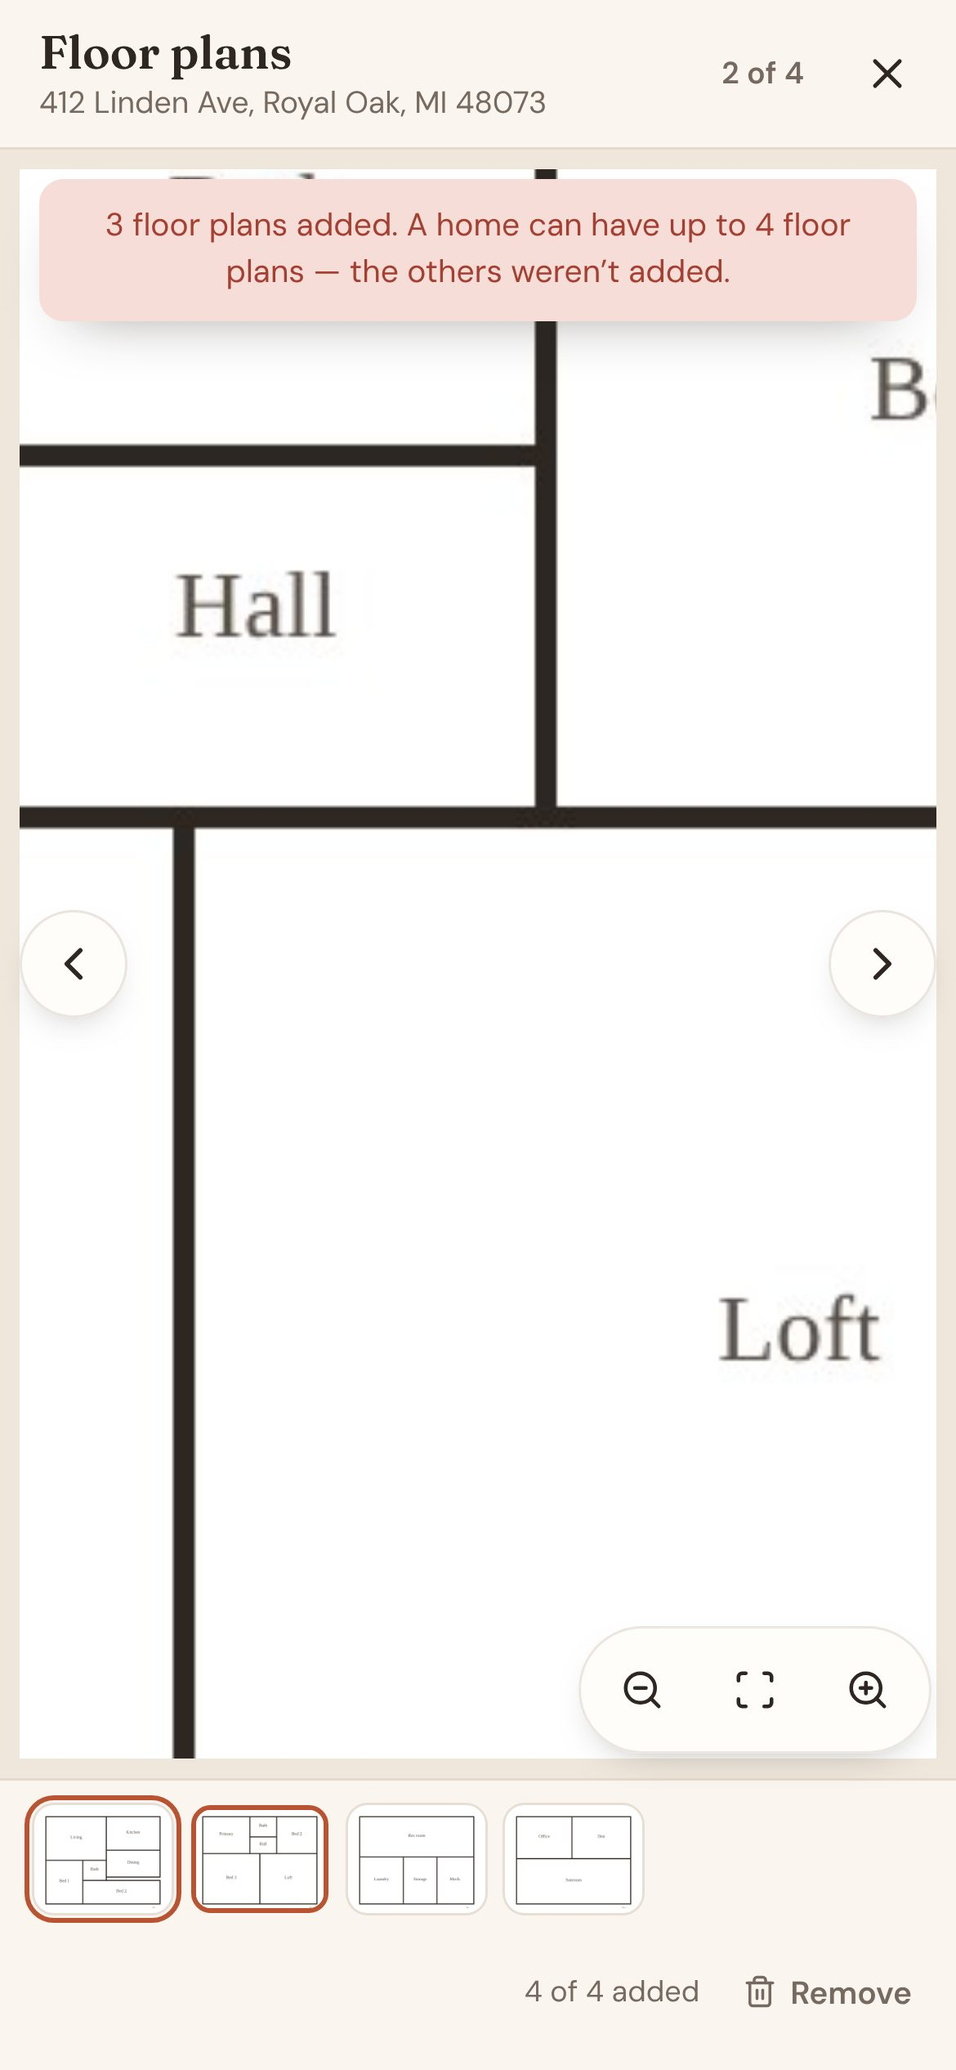
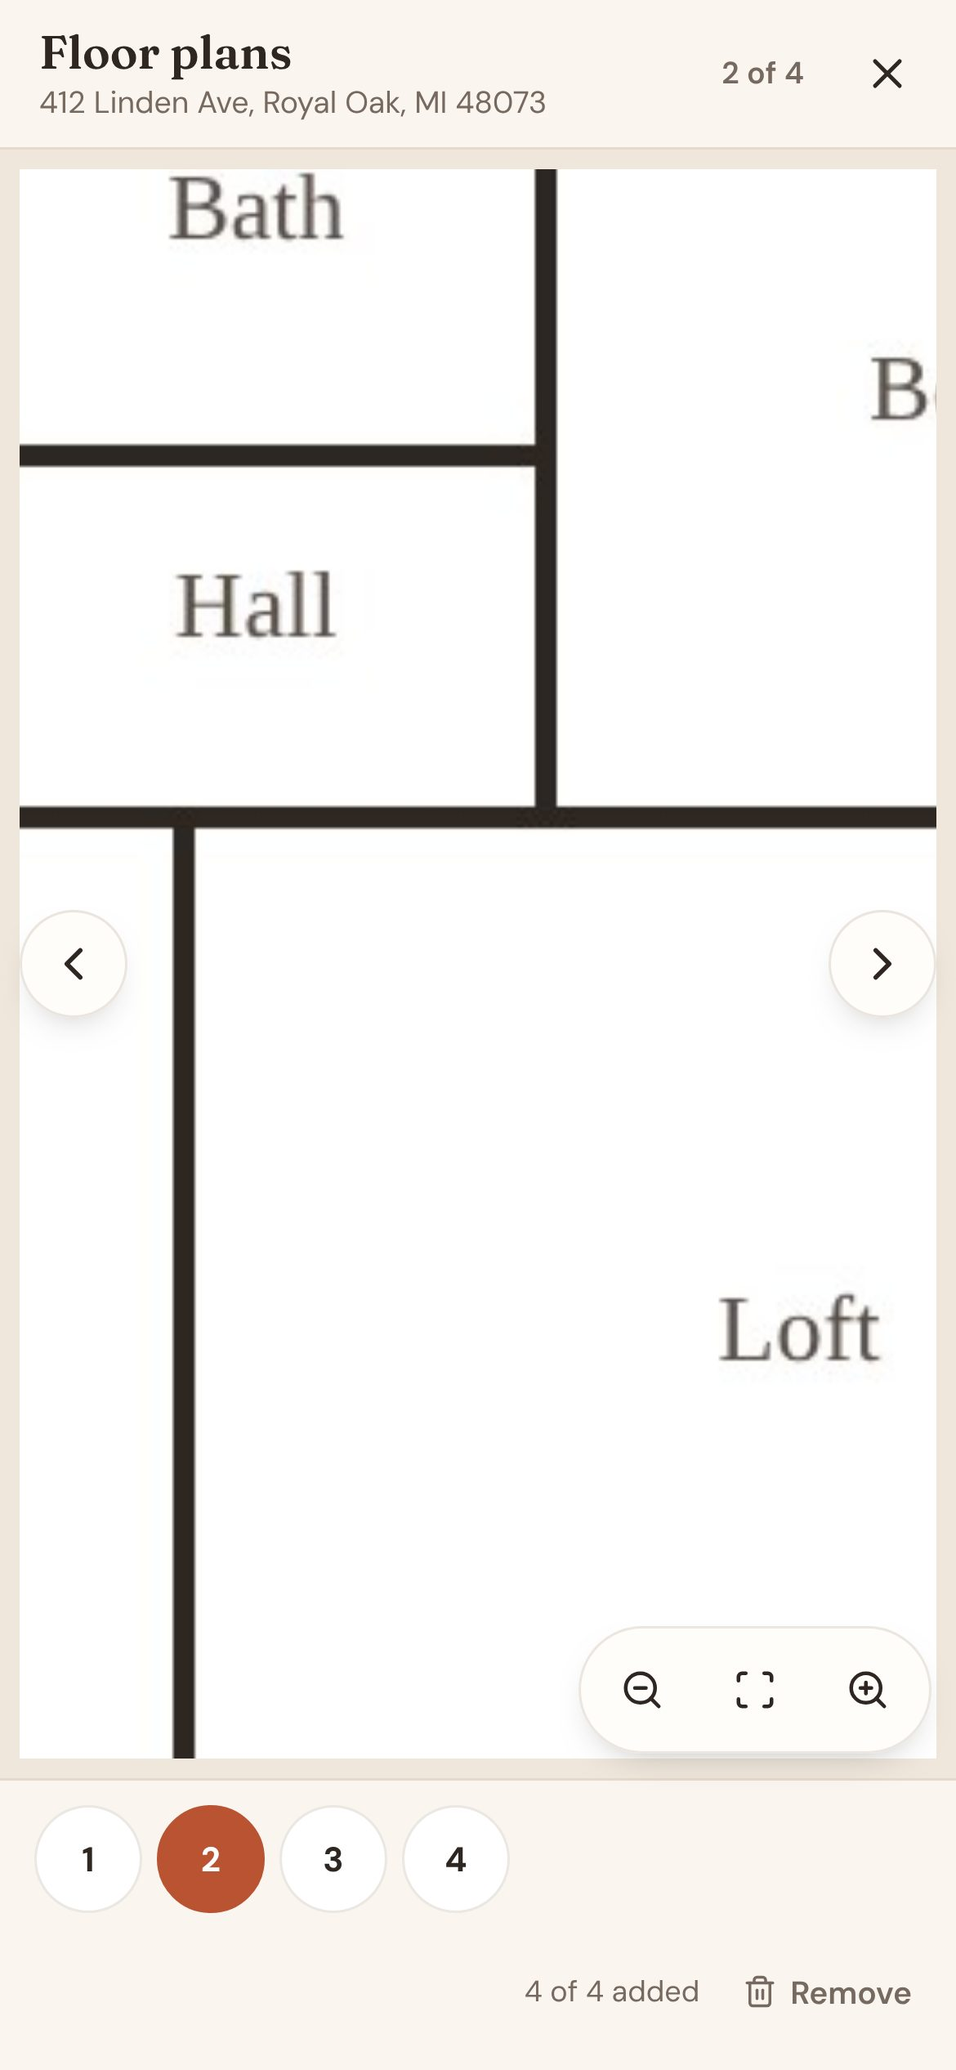
Floor plans viewer: decode only the selected plan
A plan decodes at its natural size whatever CSS draws it at, and the picker
showed every plan's original as a thumbnail, so all four were downloaded and
decoded at once. The picker is now numbered buttons: resized thumbnails would
need Supabase's paid, per-request Image Transformations, which the app does
not use.

The viewer renders a single <img> (the selected plan, stage keyed by plan).
When the stage unmounts a callback ref removes its src, so WebKit cancels a
download still in flight and can free the bitmap; late load / error events
are ignored so a cancelled download never shows as unavailable.
will-change: transform only while a finger is down (no permanent layer of the
zoomed image); decoding="async".

Tests: source guards for one <img>, no preloading, numbered picker, release on
unmount, no permanent layer. Browser QA (29/29): one download per selected
plan, rapid switching with slowed downloads (in-flight ones aborted, last
choice wins, no false error), nothing left after close, a 48 MP plan.

Claude-Session: https://claude.ai/code/session_01Xn2ZhbrXXqq3Au1bMpfmis

Changed region(s): [[0.0308, 0.0624, 0.9846, 0.1872], [0.0, 0.8424, 0.5538, 0.936]]

diff --git a/src/app/globals.css b/src/app/globals.css
@@ -2959,15 +2959,18 @@ body:has(.rl-root) { --flh-status-bar-bg: #f8f4ec; }
 .hh-fp-icon-button { display: inline-flex; align-items: center; justify-content: center; width: 44px; height: 44px; flex: 0 0 auto; padding: 0; border: 1px solid transparent; border-radius: 999px; background: transparent; color: var(--ink); cursor: pointer; }
 .hh-fp-icon-button:hover:not(:disabled) { background: rgba(46,38,33,.07); }
 .hh-fp-icon-button:disabled { opacity: .35; cursor: default; }
-.hh-fp-icon-button:focus-visible, .hh-fp-thumb:focus-visible, .hh-fp-text-button:focus-visible { outline: 2px solid var(--brick); outline-offset: 2px; }
+.hh-fp-icon-button:focus-visible, .hh-fp-page:focus-visible, .hh-fp-text-button:focus-visible { outline: 2px solid var(--brick); outline-offset: 2px; }
 .hh-fp-main { position: relative; min-height: 0; background: #EFE7DC; }
 .hh-fp-stage-wrap { position: absolute; inset: 0; }
 .hh-fp-stage { position: absolute; inset: 12px; overflow: hidden; }
 .hh-fp-canvas { position: absolute; inset: 0; display: flex; align-items: center; justify-content: center; touch-action: none; user-select: none; -webkit-user-select: none; -webkit-touch-callout: none; cursor: zoom-in; }
 .hh-fp-stage.is-zoomed .hh-fp-canvas { cursor: grab; }
 .hh-fp-stage.is-zoomed .hh-fp-canvas:active { cursor: grabbing; }
-.hh-fp-image { display: block; max-width: 100%; max-height: 100%; object-fit: contain; border-radius: 4px; background: #fff; box-shadow: 0 1px 2px rgba(46,38,33,.08), 0 16px 34px -24px rgba(46,38,33,.45); transform-origin: center; transition: transform .2s ease, opacity .2s ease; will-change: transform; pointer-events: none; }
-.hh-fp-image.is-gesturing { transition: opacity .2s ease; }
+.hh-fp-image { display: block; max-width: 100%; max-height: 100%; object-fit: contain; border-radius: 4px; background: #fff; box-shadow: 0 1px 2px rgba(46,38,33,.08), 0 16px 34px -24px rgba(46,38,33,.45); transform-origin: center; transition: transform .2s ease, opacity .2s ease; pointer-events: none; }
+/* A compositing layer only while a finger is down: a permanent one keeps a
+   bitmap of the zoomed image (many screens' worth on a 3× display) and
+   rasterises it blurry at fit size. */
+.hh-fp-image.is-gesturing { transition: opacity .2s ease; will-change: transform; }
 .hh-fp-image-loading { position: absolute; inset: 0; display: grid; place-items: center; color: var(--ink-soft); }
 .hh-fp-spin { animation: flh-spin .9s linear infinite; }
 .hh-fp-nav { position: absolute; top: 50%; transform: translateY(-50%); background: rgba(255,253,250,.92); border-color: var(--flh-card-line); box-shadow: 0 6px 16px -10px rgba(46,38,33,.5); }
@@ -2985,10 +2988,10 @@ body:has(.rl-root) { --flh-status-bar-bg: #f8f4ec; }
 .hh-fp-add.hh-btn { display: inline-flex; align-items: center; justify-content: center; gap: 7px; min-height: 44px; padding: 0 16px; border-radius: 10px; font: 700 13.5px var(--font-ui); }
 .hh-fp-add.hh-btn:disabled { opacity: .7; cursor: progress; }
 .hh-fp-footer { display: flex; align-items: center; justify-content: space-between; flex-wrap: wrap; gap: 10px 16px; padding: 12px 18px calc(12px + var(--flh-safe-bottom, 0px)); border-top: 1px solid var(--line); background: var(--paper); }
-.hh-fp-thumbs { display: flex; gap: 8px; margin: 0; padding: 0; list-style: none; }
-.hh-fp-thumb { display: grid; place-items: center; width: 64px; height: 48px; overflow: hidden; padding: 0; border: 2px solid transparent; border-radius: 8px; background: #fff; color: var(--ink-soft); cursor: pointer; box-shadow: 0 0 0 1px var(--flh-card-line); }
-.hh-fp-thumb img { width: 100%; height: 100%; object-fit: cover; pointer-events: none; }
-.hh-fp-thumb.is-current { border-color: var(--brick); box-shadow: none; }
+.hh-fp-pages { display: flex; flex-wrap: wrap; gap: 6px; margin: 0; padding: 0; list-style: none; }
+.hh-fp-page { display: grid; place-items: center; width: 44px; height: 44px; padding: 0; border: 1px solid var(--flh-card-line); border-radius: 999px; background: var(--paper-raised); color: var(--ink); cursor: pointer; font: 700 14px var(--font-ui); font-variant-numeric: tabular-nums; }
+.hh-fp-page:hover:not(.is-current) { border-color: var(--brick); color: var(--brick); }
+.hh-fp-page.is-current { border-color: var(--brick); background: var(--brick); color: #fff; }
 .hh-fp-edit { display: flex; align-items: center; gap: 4px 14px; flex-wrap: wrap; margin-left: auto; }
 .hh-fp-room { color: var(--ink-soft); font-size: 12px; font-variant-numeric: tabular-nums; }
 .hh-fp-text-button { display: inline-flex; align-items: center; gap: 5px; min-height: 44px; padding: 0 4px; border: 0; border-radius: 6px; background: none; color: var(--ink-soft); cursor: pointer; font: 600 13px var(--font-ui); }
@@ -3017,11 +3020,10 @@ body:has(.rl-root) { --flh-status-bar-bg: #f8f4ec; }
   .hh-fp-nav.is-next { right: 8px; }
   .hh-fp-zoom { right: 10px; bottom: 10px; }
   .hh-fp-footer { padding: 10px 14px calc(10px + var(--flh-safe-bottom, 0px)); }
-  .hh-fp-thumb { width: 56px; height: 44px; }
   .hh-fp-confirm { justify-content: flex-start; margin-left: 0; }
 }
 /* Short landscape (iPhone on its side): the stage takes the height, the
-   thumbnails and actions move to a rail on the right. */
+   plan numbers and actions move to a rail on the right. */
 @media (orientation: landscape) and (max-height: 560px) {
   .hh-fp-viewer { grid-template-columns: minmax(0, 1fr) auto; grid-template-rows: auto minmax(0, 1fr); }
   .hh-fp-header { grid-column: 1 / -1; padding-top: calc(4px + var(--flh-safe-top, 0px)); padding-bottom: 4px; }
@@ -3029,7 +3031,6 @@ body:has(.rl-root) { --flh-status-bar-bg: #f8f4ec; }
   .hh-fp-title { display: inline; font-size: 17px; }
   .hh-fp-main { grid-column: 1; grid-row: 2; }
   .hh-fp-footer { grid-column: 2; grid-row: 2; flex-direction: column; flex-wrap: nowrap; align-items: stretch; justify-content: flex-start; width: 172px; overflow-y: auto; padding: 10px 12px calc(10px + var(--flh-safe-bottom, 0px)); border-top: 0; border-left: 1px solid var(--line); }
-  .hh-fp-thumbs { flex-wrap: wrap; }
   .hh-fp-edit, .hh-fp-confirm { flex-direction: column; align-items: stretch; margin-left: 0; gap: 4px; }
   .hh-fp-confirm > div { flex-direction: column; }
 }

diff --git a/src/components/FloorPlans.jsx b/src/components/FloorPlans.jsx
@@ -41,9 +41,33 @@ export function FloorPlansAction({ count, canEdit, address, onOpen }) {
 // One plan, fitted to the stage. Pinch or double-tap / double-click to zoom,
 // drag to pan while zoomed; at fit, a horizontal swipe moves between plans
 // and a pull down closes. Wheel / trackpad zoom on desktop.
+//
+// Memory: this is the only full-resolution image the viewer ever mounts (the
+// plan picker is numbered buttons, not thumbnails, and nothing is preloaded).
+// A floor plan decodes at its natural size whatever CSS draws it at — a 48 MP
+// scan is ~190 MB of bitmap — so the stage is keyed by plan and, when it
+// unmounts (another plan chosen, viewer closed), drops the image's src: WebKit
+// cancels a download still in flight and can free the decoded bitmap at once
+// instead of keeping it until the node is collected.
 function ZoomStage({ plan, alt, controlsRef, onScaleChange, onSwipe, onDismiss, onImageError, onImageLoad }) {
   const stageRef = useRef(null);
   const canvasRef = useRef(null);
+  const image = useRef(null);
+  const released = useRef(false);
+  // A callback ref, not an effect cleanup: React has already cleared object
+  // refs by the time unmount cleanups run, so the node would be gone.
+  const imageRef = useCallback((node) => {
+    if (node) {
+      image.current = node;
+      released.current = false;
+      return;
+    }
+    // Late load / error events from a released image are not this plan's
+    // failure (a cancelled download fires none, but no engine is relied on).
+    released.current = true;
+    image.current?.removeAttribute('src');
+    image.current = null;
+  }, []);
   const [view, setView] = useState({ scale: MIN_SCALE, x: 0, y: 0 });
   const [stage, setStage] = useState({ width: 0, height: 0 });
   const [natural, setNatural] = useState(null);
@@ -211,9 +235,11 @@ function ZoomStage({ plan, alt, controlsRef, onScaleChange, onSwipe, onDismiss, 
         >
           {/* eslint-disable-next-line @next/next/no-img-element */}
           <img
+            ref={imageRef}
             src={plan.url}
             alt={alt}
             draggable={false}
+            decoding="async"
             className={`hh-fp-image${loaded ? ' is-loaded' : ''}${gesturing ? ' is-gesturing' : ''}`}
             style={{
               width: fitted.width || undefined,
@@ -222,11 +248,12 @@ function ZoomStage({ plan, alt, controlsRef, onScaleChange, onSwipe, onDismiss, 
               opacity: loaded ? (follow?.y ? Math.max(0.35, 1 - follow.y / 400) : 1) : 0,
             }}
             onLoad={(event) => {
+              if (released.current) return;
               setNatural({ width: event.currentTarget.naturalWidth, height: event.currentTarget.naturalHeight });
               setLoaded(true);
               onImageLoad?.(plan);
             }}
-            onError={() => onImageError?.(plan)}
+            onError={() => { if (!released.current) onImageError?.(plan); }}
           />
           {!loaded && <div className="hh-fp-image-loading" role="status"><LoaderCircle size={22} className="hh-fp-spin" aria-hidden="true" /><span className="sr-only">Loading floor plan</span></div>}
         </div>
@@ -553,17 +580,19 @@ export function FloorPlansViewer({ homeId, address, onClose, onCountChange }) {
 
         {phase === 'ready' && plans.length > 0 && (plans.length > 1 || canEdit) && (
           <footer className="hh-fp-footer">
+            {/* Numbered, not thumbnails: a thumbnail would have to be the full
+                original (no resized variants without paid Storage image
+                transformations), downloading and decoding every plan at once. */}
             {plans.length > 1 && (
-              <ul className="hh-fp-thumbs" aria-label="Choose a floor plan">
+              <ol className="hh-fp-pages" aria-label="Choose a floor plan">
                 {plans.map((plan, i) => (
                   <li key={plan.id}>
-                    <button type="button" className={`hh-fp-thumb${i === index ? ' is-current' : ''}`} onClick={() => { setConfirming(false); setIndex(i); }} aria-label={`Floor plan ${i + 1} of ${plans.length}`} aria-current={i === index ? 'true' : undefined}>
-                      {/* eslint-disable-next-line @next/next/no-img-element */}
-                      {plan.url && !broken[plan.id] ? <img src={plan.url} alt="" draggable={false} /> : <DraftingCompass size={16} aria-hidden="true" />}
+                    <button type="button" className={`hh-fp-page${i === index ? ' is-current' : ''}`} onClick={() => { setConfirming(false); setIndex(i); }} aria-label={`Floor plan ${i + 1} of ${plans.length}`} aria-current={i === index ? 'true' : undefined}>
+                      {i + 1}
                     </button>
                   </li>
                 ))}
-              </ul>
+              </ol>
             )}
             {canEdit && (
               confirming ? (

diff --git a/test/floor-plans-ui.test.js b/test/floor-plans-ui.test.js
@@ -192,6 +192,49 @@ test('signed URLs are refreshed before they lapse, on return from the background
   assert.match(viewer, /\{canEdit && \(/);
 });
 
+/* --------------------------- image memory (WKWebView) --------------------------- */
+
+test('memory: the viewer mounts exactly one full-resolution image — the selected plan — and preloads nothing', () => {
+  // One <img> in the whole component, inside ZoomStage, which is keyed by plan.
+  assert.equal((viewer.match(/<img\b/g) || []).length, 1);
+  const stage = viewer.slice(viewer.indexOf('function ZoomStage('), viewer.indexOf('function FloorPlansViewer('));
+  assert.match(stage, /<img\s+ref=\{imageRef\}\s+src=\{plan\.url\}/);
+  assert.match(viewer, /<ZoomStage\s+key=\{current\.id\}/);
+  assert.equal((viewer.match(/<ZoomStage\b/g) || []).length, 1);
+  // No preloading or off-screen decoding of other plans.
+  assert.doesNotMatch(viewer, /new Image\(|rel="preload"|rel=.prefetch|\.decode\(\)|createImageBitmap|<canvas|URL\.createObjectURL|fetch\(/);
+  assert.match(stage, /decoding="async"/);
+});
+
+test('memory: the plan picker is numbered buttons, not thumbnails of the originals', () => {
+  const picker = viewer.slice(viewer.indexOf('<ol className="hh-fp-pages"'), viewer.indexOf('</ol>'));
+  assert.ok(picker.length > 0, 'numbered picker missing');
+  assert.doesNotMatch(picker, /<img|plan\.url|background-?[Ii]mage/);
+  assert.match(picker, /aria-label=\{`Floor plan \$\{i \+ 1\} of \$\{plans\.length\}`\}/);
+  assert.match(picker, /aria-current=\{i === index \? 'true' : undefined\}/);
+  assert.match(picker, /\{i \+ 1\}/);
+  assert.doesNotMatch(viewer + fpCss, /hh-fp-thumb/);
+  assert.match(fpCss, /\.hh-fp-page \{[^}]*width: 44px; height: 44px;/);
+  // Signing is unchanged: one batch of plain signed URLs, no (paid) transforms.
+  assert.doesNotMatch(viewer, /transform:\s*\{|render\/image|createSignedUrl\(/);
+});
+
+test('memory: a stage that unmounts drops its image src (cancels the download, frees the bitmap) and ignores late events', () => {
+  const stage = viewer.slice(viewer.indexOf('function ZoomStage('), viewer.indexOf('function FloorPlansViewer('));
+  // A callback ref: object refs are already null when unmount cleanups run.
+  assert.match(stage, /const imageRef = useCallback\(\(node\) => \{[\s\S]*?released\.current = true;\s*image\.current\?\.removeAttribute\('src'\);\s*image\.current = null;/);
+  assert.doesNotMatch(stage, /imageRef\.current/);
+  assert.match(stage, /onLoad=\{\(event\) => \{\s*if \(released\.current\) return;/);
+  assert.match(stage, /onError=\{\(\) => \{ if \(!released\.current\) onImageError\?\.\(plan\); \}\}/);
+});
+
+test('memory: CSS sizing is not the optimisation — no permanent compositing layer for the zoomed image', () => {
+  // The fitted width/height only change how the bitmap is drawn, not its size.
+  assert.match(fpCss, /\.hh-fp-image \{[^}]*transform-origin: center;/);
+  assert.doesNotMatch(fpCss.match(/\.hh-fp-image \{[^}]*\}/)[0], /will-change/);
+  assert.match(fpCss, /\.hh-fp-image\.is-gesturing \{ transition: opacity \.2s ease; will-change: transform; \}/);
+});
+
 /* ---------------------------- accessibility / devices ---------------------------- */
 
 test('viewer: modal dialog, focus trap, Escape, labelled 44px controls, keyboard zoom and pan', () => {

diff --git a/docs/floor-plans-ui.md b/docs/floor-plans-ui.md
@@ -53,7 +53,8 @@ overlay are untouched.
 **Viewer** (`src/components/FloorPlans.jsx`): full-screen on phones and in
 short landscape, a large dialog on iPad / desktop.
 
-* One plan or several: counter (`2 of 3`), previous / next buttons, thumbnails,
+* One plan or several: counter (`2 of 3`), previous / next buttons, numbered
+  plan buttons (`1 2 3 4`),
   swipe left / right, arrow keys. No wrap-around.
 * Zoom: pinch, double-tap / double-click, trackpad / wheel, `+` `-` `0` keys
   and Zoom out / Fit / Zoom in buttons (1×–4×). Drag pans while zoomed; the
@@ -61,7 +62,7 @@ short landscape, a large dialog on iPad / desktop.
 * Close: ✕, Escape, pull down. Focus is trapped while open and returns to the
   card action afterwards. Every control is labelled and ≥ 44 px; notices are
   announced (`status` / `alert`); reduced motion respected.
-* Landscape iPhone: the thumbnails and actions move to a side rail so the plan
+* Landscape iPhone: the plan numbers and actions move to a side rail so the plan
   gets the full height. Safe areas (notch, home indicator) respected.
 * Owner / co-buyer: `Add floor plan` (JPEG, PNG or WebP, ≤ 10 MB, several at
   once), `Remove` (asks first: "for everyone on this search"), `n of 4 added`.
@@ -97,6 +98,40 @@ bucket objects after every add / remove: no leftover file.
 viewer is open, on return from the background past that point, and once when
 an image fails to load; a second failure shows the unavailable state.
 
+## Image memory (iPhone / iPad WKWebView)
+
+A floor plan decodes at its **natural** pixel size, whatever size CSS draws
+it: a 48 MP phone photo or scan is about 190 MB of bitmap. Drawing it smaller
+(`width` / `height`, `object-fit`) saves nothing and is not counted as an
+optimisation here. What the viewer does instead:
+
+* **One full-resolution image at a time.** The viewer renders exactly one
+  `<img>`, the selected plan, inside a stage keyed by plan. Nothing else is
+  mounted, preloaded, prefetched or decoded off screen (no `new Image()`,
+  `<link rel=preload>`, canvas or blob URLs).
+* **Numbered plan buttons instead of thumbnails.** A thumbnail would have to be
+  the original file. Signed, resized variants need Supabase Storage *Image
+  Transformations*: Pro plan and above, billed per origin image, switchable per
+  project, and reachable only through one signing request per image
+  (`createSignedUrl(…, { transform })`; the batch `createSignedUrls` the app uses
+  has no transform option). It is not used anywhere in the app and not
+  verifiable from here, so it is not used.
+* **Released on switch / close.** When the stage unmounts it removes the image's
+  `src` (via a callback ref; object refs are already cleared when unmount
+  cleanups run). WebKit then cancels a download still in flight and can drop the
+  decoded bitmap straight away. Load / error events after that are ignored, so
+  a cancelled download never shows as "isn't available".
+* **No permanent compositing layer.** `will-change: transform` is set only while
+  a finger is down. A permanent layer keeps a bitmap of the *zoomed* image (many
+  screens' worth at 4× on a 3× display) and renders the plan soft when zoomed.
+* `decoding="async"`, so decoding a large plan does not block touch handling.
+
+Browser QA checks: opening four plans downloads one image; choosing another
+downloads only that one; never more than one `<img>`; rapid switching with
+slowed downloads cancels the in-flight ones (`net::ERR_ABORTED`), shows the last
+choice and no false error; closing leaves no plan image in the page; an
+8000 × 6000 plan loads, zooms and is released.
+
 Not built (by design): names, labels, ordering, replace, PDFs, external URLs,
 a gallery, anything inside Add/Edit Home.
 
@@ -111,11 +146,12 @@ a gallery, anything inside Add/Edit Home.
   outsider and removed members.
 * `scripts/qa/floor-plans-ui-qa.mjs` — browser QA against the local Supabase
   stand-in (real policies, bucket limits, signed-URL expiry), on iPhone- and
-  iPad-sized touch viewports with real touch input (CDP). 24 steps: flag off;
+  iPad-sized touch viewports with real touch input (CDP). 29 steps: flag off;
   owner zero → one → four (PNG, JPEG, WebP); invalid / oversized files; failed
   upload; over-limit batch; stale viewer at the limit; navigation; swipe,
   pinch, pan, double-tap, Fit; remove; signing failure; expired URL re-signed;
-  persistently failing image; iPhone landscape; co-buyer on iPad (portrait and
+  persistently failing image; image memory (one download per selected plan,
+  rapid switching, release on close, a 48 MP plan); iPhone landscape; co-buyer on iPad (portrait and
   landscape); Realtor view-only (UI and API); co-buyer and Realtor revoked
   mid-session; anon; cover photos unchanged. Screenshots:
   `docs/floor-plans-ui-screenshots/`.
@@ -139,10 +175,16 @@ events. Not yet proven on devices:
 3. **iPad** — Split View / Slide Over widths, Stage Manager resizing,
    rotation while zoomed (the view re-clamps; check it feels right), trackpad
    pinch.
-4. **Large real plans** — 8–10 MB scans on cellular: thumbnails load the same
-   full-size signed images (at most four), so first open can be slow.
+4. **Large real plans** — Chromium cannot measure WebKit's image memory, so
+   the per-image ceiling is unproven on hardware: open the largest real scans
+   (e.g. a 48 MP iPhone photo of a plan, ~190 MB decoded) on the oldest
+   supported iPhone and an iPad, zoom to 4×, switch plans quickly, and watch
+   for blank images or the native app's web view reloading (WKWebView ends the
+   web process under memory pressure). One such image is the worst case now;
+   before this change every plan's original was also decoded for its thumbnail. If it fails, the next step is limiting
+   pixel size at upload (a client-side resize), not a new service.
 5. **Background > 15 min** — return to an open viewer after the URLs lapsed.
-6. **VoiceOver** — dialog announcement, thumbnail labels, live notices.
+6. **VoiceOver** — dialog announcement, numbered plan labels, live notices.
 7. **Hosted Storage** — the stand-in mirrors storage-api v1.25.7; Production's
    Storage version / CDN have not been exercised by this UI (the foundation's
    hosted smoke test is still pending your approval).
